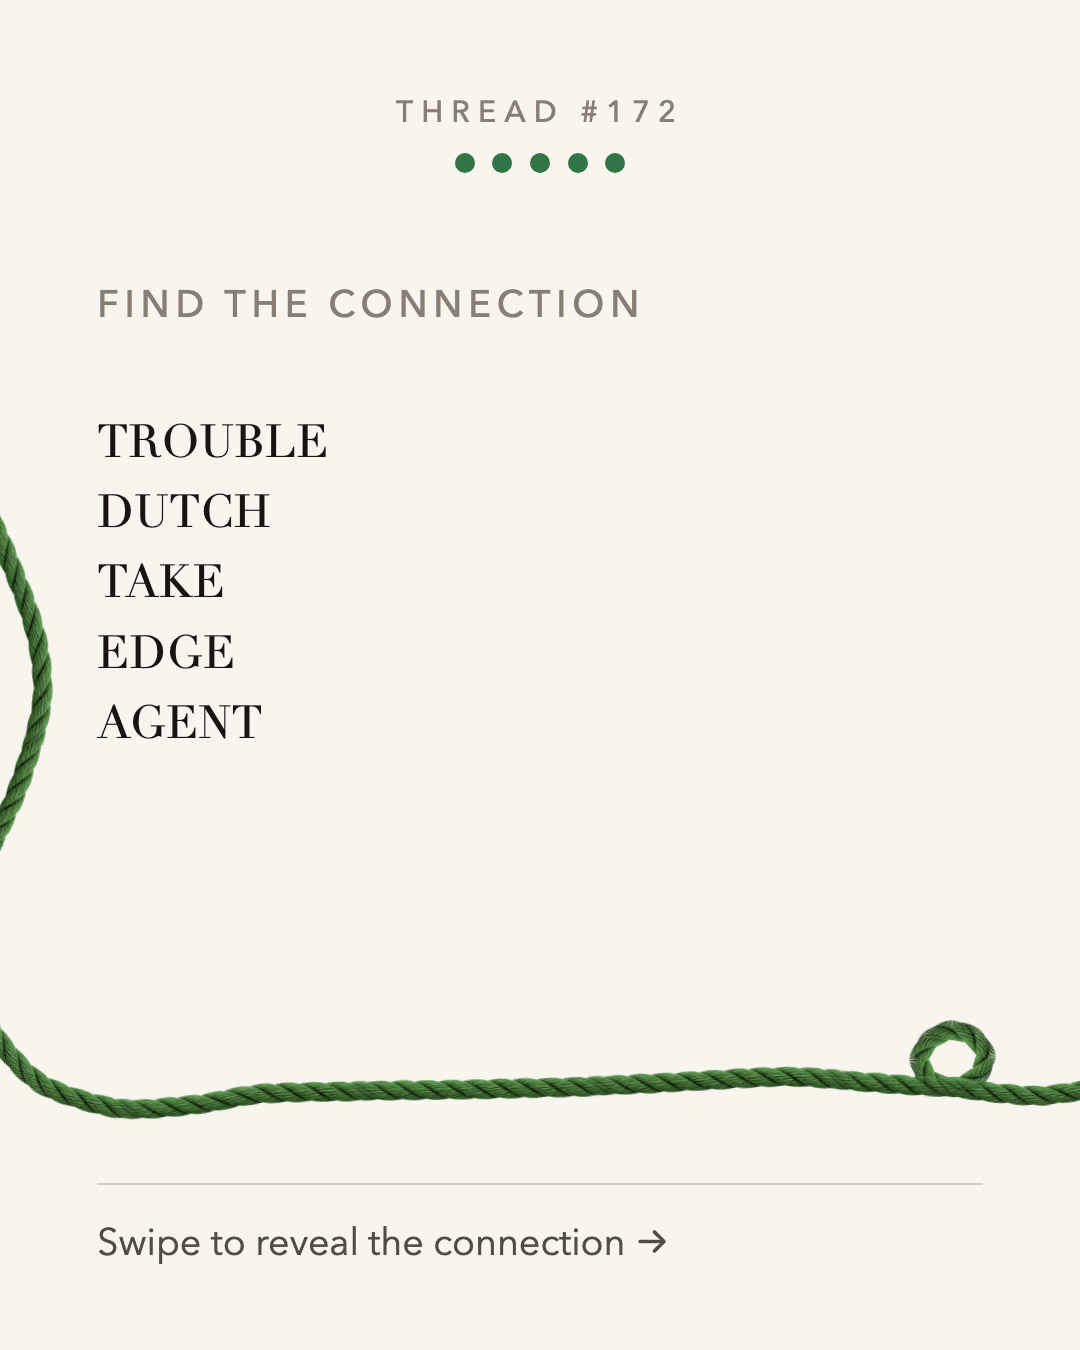
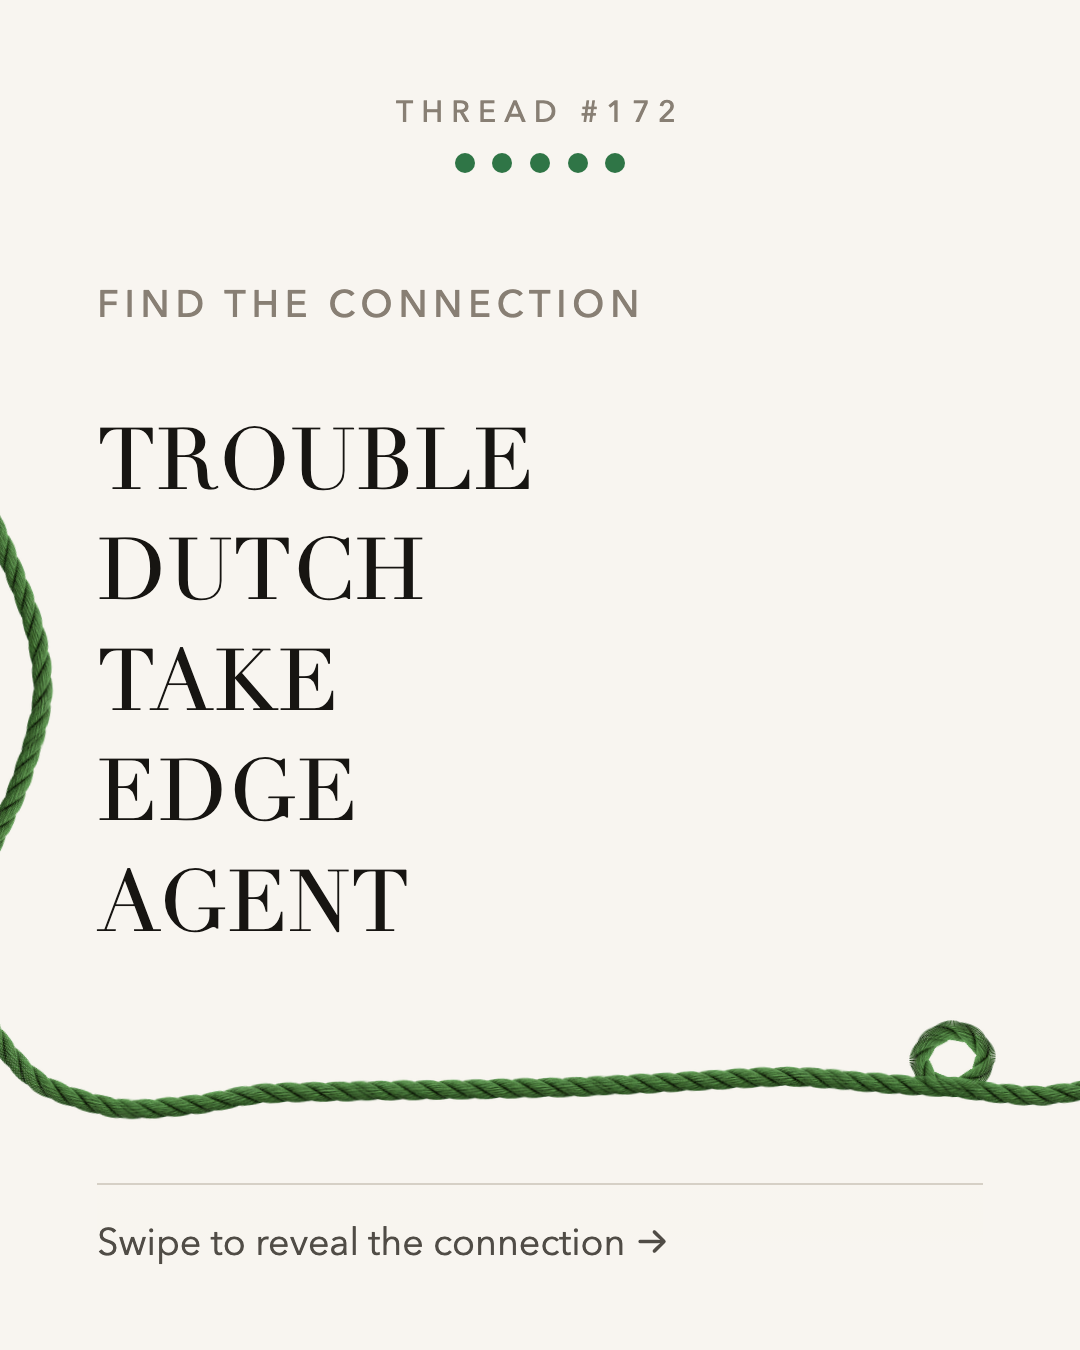
fix: keep carousel clue typography readable

Changed region(s): [[0.0917, 0.3111, 0.4889, 0.6844]]

diff --git a/social-automation/template.html b/social-automation/template.html
@@ -6,7 +6,7 @@
   <title>Daily Thread social carousel</title>
   <style>
     :root {
-      --paper: #f8f5ef;
+      --paper: #f8f5f0;
       --ink: #171512;
       --muted: #716d65;
       --green: #2f7546;
@@ -86,6 +86,8 @@
     .clue-stack { display: flex; flex: 1; flex-direction: column; justify-content: flex-start; gap: 10px; padding: 10% 0 4%; }
     .post-slide:nth-child(1) .clue-stack { padding-top: calc(10% + 3px); }
     .clue-word {
+      align-self: flex-start;
+      width: max-content;
       color: var(--ink);
       font-family: var(--serif);
       font-size: var(--clue-size);
@@ -353,10 +355,10 @@
         label.textContent = `Thread #${post.threadNumber}`;
       });
 
-      const maxClueLength = Math.max(...post.clues.map(clue => clue.word.length));
-      const firstClueLength = post.clues[0].word.length;
-      let clueSize = maxClueLength >= 10 ? 32 : maxClueLength >= 9 ? 35 : maxClueLength >= 8 ? 38 : 42;
-      if (firstClueLength >= 7) clueSize = Math.min(clueSize, 35);
+      const preferredClueSize = 42;
+      const minimumClueSize = 22;
+      const safeGap = 14;
+      let clueSize = preferredClueSize;
       document.documentElement.style.setProperty('--clue-size', `${clueSize}px`);
 
       document.querySelectorAll('.puzzle-slide .clue-stack').forEach((stack, index) => {
@@ -368,12 +370,40 @@
         }));
       });
 
-      const firstWord = document.querySelector('.post-slide:nth-child(1) .clue-word');
+      const firstSlide = document.querySelector('.post-slide:nth-child(1)');
+      const firstStack = firstSlide.querySelector('.clue-stack');
+      const firstWord = firstStack.querySelector('.clue-word');
       const howToPlay = document.querySelector('.corner-example');
-      while (firstWord.getBoundingClientRect().right > howToPlay.getBoundingClientRect().left - 20 && clueSize > 18) {
+      const measure = document.createElement('span');
+      measure.className = 'clue-word';
+      Object.assign(measure.style, {
+        position: 'absolute',
+        top: '0',
+        left: '0',
+        visibility: 'hidden',
+        pointerEvents: 'none',
+      });
+      firstSlide.append(measure);
+
+      const clueWidths = () => post.clues.map(clue => {
+        measure.textContent = clue.word;
+        return measure.getBoundingClientRect().width;
+      });
+      const layoutFits = () => {
+        const firstWordRight = firstWord.getBoundingClientRect().right;
+        const howToPlayLeft = howToPlay.getBoundingClientRect().left;
+        const fullWidth = firstStack.getBoundingClientRect().width;
+        return firstWordRight <= howToPlayLeft - safeGap && Math.max(...clueWidths()) <= fullWidth;
+      };
+
+      while (!layoutFits() && clueSize > minimumClueSize) {
         clueSize -= 1;
         document.documentElement.style.setProperty('--clue-size', `${clueSize}px`);
       }
+      if (!layoutFits()) {
+        throw new Error(`${post.clues[0].word} does not fit at ${minimumClueSize}px: first right ${firstWord.getBoundingClientRect().right.toFixed(1)}, onboarding left ${howToPlay.getBoundingClientRect().left.toFixed(1)}, widest clue ${Math.max(...clueWidths()).toFixed(1)}, stack ${firstStack.getBoundingClientRect().width.toFixed(1)}.`);
+      }
+      measure.remove();
 
       const maxConnectionLength = Math.max(...post.clues.map(clue => clue.connection.length));
       const resultSize = maxConnectionLength >= 25 ? 17 : maxConnectionLength >= 19 ? 20 : 24;
@@ -391,6 +421,26 @@
         document.documentElement.style.setProperty('--result-size', `${resultSize}px`);
       }
       document.querySelector('.result-answer').textContent = post.answer;
+    };
+
+    window.getCarouselLayoutMetrics = () => {
+      const firstSlide = document.querySelector('.post-slide:nth-child(1)');
+      const firstStack = firstSlide.querySelector('.clue-stack');
+      const firstWord = firstStack.querySelector('.clue-word');
+      const howToPlay = document.querySelector('.corner-example');
+      const clueWords = [...document.querySelectorAll('.puzzle-slide .clue-word')];
+      const clueSizes = [...new Set(clueWords.map(word => Number.parseFloat(getComputedStyle(word).fontSize)))];
+      return {
+        paper: getComputedStyle(document.documentElement).getPropertyValue('--paper').trim().toLowerCase(),
+        stageBackground: getComputedStyle(document.querySelector('#postStage')).backgroundColor,
+        clueSizes,
+        firstWord: firstWord.textContent,
+        firstWordWidth: firstWord.getBoundingClientRect().width,
+        firstWordRight: firstWord.getBoundingClientRect().right,
+        stackWidth: firstStack.getBoundingClientRect().width,
+        howToPlayLeft: howToPlay.getBoundingClientRect().left,
+        safeGap: 14,
+      };
     };
 
     window.showSlide = number => {

diff --git a/social-automation/README.md b/social-automation/README.md
@@ -12,9 +12,10 @@ Both show the previous London day's Thread. Nine queued posts provide more than 
 1. `cli.mjs` reads `src/new-rounds.js` and reproduces the app's seeded daily schedule.
 2. It renders seven 1080×1350 PNGs and one 1080×1920, 30-second H.264/AAC Reel for each date.
 3. Each Reel automatically selects either the join layout for exact before/after compounds or the phrase layout for more varied connections.
-4. The workflow commits immutable, date-addressed media to `docs/social/YYYY-MM-DD/`.
-5. Buffer receives those public media URLs and schedules any missing carousel or Reel.
-6. The workflow runs at 06:17 and 16:37 London time, giving the evening run time to recover before the Reel slot. Changes to the automation, workflow or puzzle pool also trigger an immediate deployment run; generated media commits are excluded to prevent loops.
+4. Carousel clue type starts at the approved 42px, measures the real glyph bounds, and scales the whole five-clue sequence only when the opening word would enter the onboarding safe area. A 22px emergency floor protects unusually long opening words; normal short clues stay at 42px. The renderer locks the approved `#f8f5f0` paper colour and rejects inconsistent or unreadable layouts.
+5. The workflow commits immutable, date-addressed media to `docs/social/YYYY-MM-DD/`.
+6. Buffer receives those public media URLs and schedules any missing carousel or Reel.
+7. The workflow runs at 06:17 and 16:37 London time, giving the evening run time to recover before the Reel slot. Changes to the automation, workflow or puzzle pool also trigger an immediate deployment run; generated media commits are excluded to prevent loops.
 
 The Buffer API key is stored only as the repository secret `BUFFER_API_KEY`.
 
@@ -35,6 +36,8 @@ node social-automation/cli.mjs audit
 ```
 
 `schedule` is idempotent by London date and format: it will not create a second carousel or Reel when that format is already scheduled or sent. It stops at nine total queued posts. `audit` passes only when both formats for today are scheduled or sent.
+
+Buffer fetches scheduled media from its source URL at publication time. Regenerating a future date at the same immutable queue URL therefore corrects its already-scheduled carousel without deleting or duplicating the Buffer post.
 
 Buffer's API cannot upload a custom Reel cover. The automation selects the frame at 600 ms as the cover and shares the Reel to the Instagram feed.
 

diff --git a/CURRENT_STATE.md b/CURRENT_STATE.md
@@ -1,6 +1,6 @@
 # Current State
 
-Last updated: 2026-07-24
+Last updated: 2026-08-06
 
 This file is an operational snapshot of the repo as it exists locally right now. It is intentionally specific to the current working tree, not a timeless product overview.
 
@@ -132,6 +132,8 @@ Verified implemented areas:
 - The automation reproduces the app's `20260331` shuffle seed and February 16 thread-number anchor. Its regression check maps 4 August 2026 to Thread #170 / TIME / OVER, BED, HALF, BOMB, OUT.
 - Buffer credentials live only in the GitHub repository secret `BUFFER_API_KEY`; generated public media and post metadata contain no secret.
 - The queue intentionally targets nine posts so Buffer Free retains one spare scheduled-post slot.
+- Carousel clue sizing now measures the visible glyphs instead of the full-width clue container. All five clue slides share one 22–42px size, ordinary four-letter openings retain the approved 42px, and browser QC covers every bundled round before media is rendered. Tomorrow's seven-letter `TROUBLE` fixture is locked at 34px with a verified onboarding-box gap.
+- Carousel exports use the locked `#f8f5f0` paper colour. Buffer fetches the date-addressed media at publication time, so regenerated future assets update already-scheduled posts without duplicate queue entries.
 
 ### Current local build/test signal
 

diff --git a/AGENTS.md b/AGENTS.md
@@ -74,6 +74,7 @@ If docs disagree with code:
 - Trace the actual code path, not just filenames
 - Separate facts, inferences, and unknowns in your own notes and in handoff updates
 - Prefer small, explicit changes over broad speculative refactors
+- For generated visual media, validate the exported geometry and colour values. Collision checks must measure the visible content (for example, a glyph-sized span), never a stretching block container, and should fail closed before unreadable media is scheduled.
 - If a local environment/tooling issue is blocking verification, document it clearly and distinguish it from app-code failures
 - If docs, code, and current diff disagree, record which one you trust and why
 

diff --git a/README.md b/README.md
@@ -252,6 +252,7 @@ The approved seven-slide carousel and rolling Buffer queue live in `social-autom
 - post rule: publish the previous `Europe/London` day's Thread at 10:05 London time
 - reliability: keep nine future carousels scheduled, with two daily repair/check runs
 - media: immutable 1080×1350 PNGs committed under `docs/social/YYYY-MM-DD/`
+- layout QC: clue type is consistent within each carousel, measures actual glyph width against the slide-one onboarding safe area, never falls below the 22px long-word floor, and uses the locked `#f8f5f0` paper colour
 - publishing: Buffer GraphQL API using the repository secret `BUFFER_API_KEY`
 - workflow: `.github/workflows/daily-social.yml`
 
